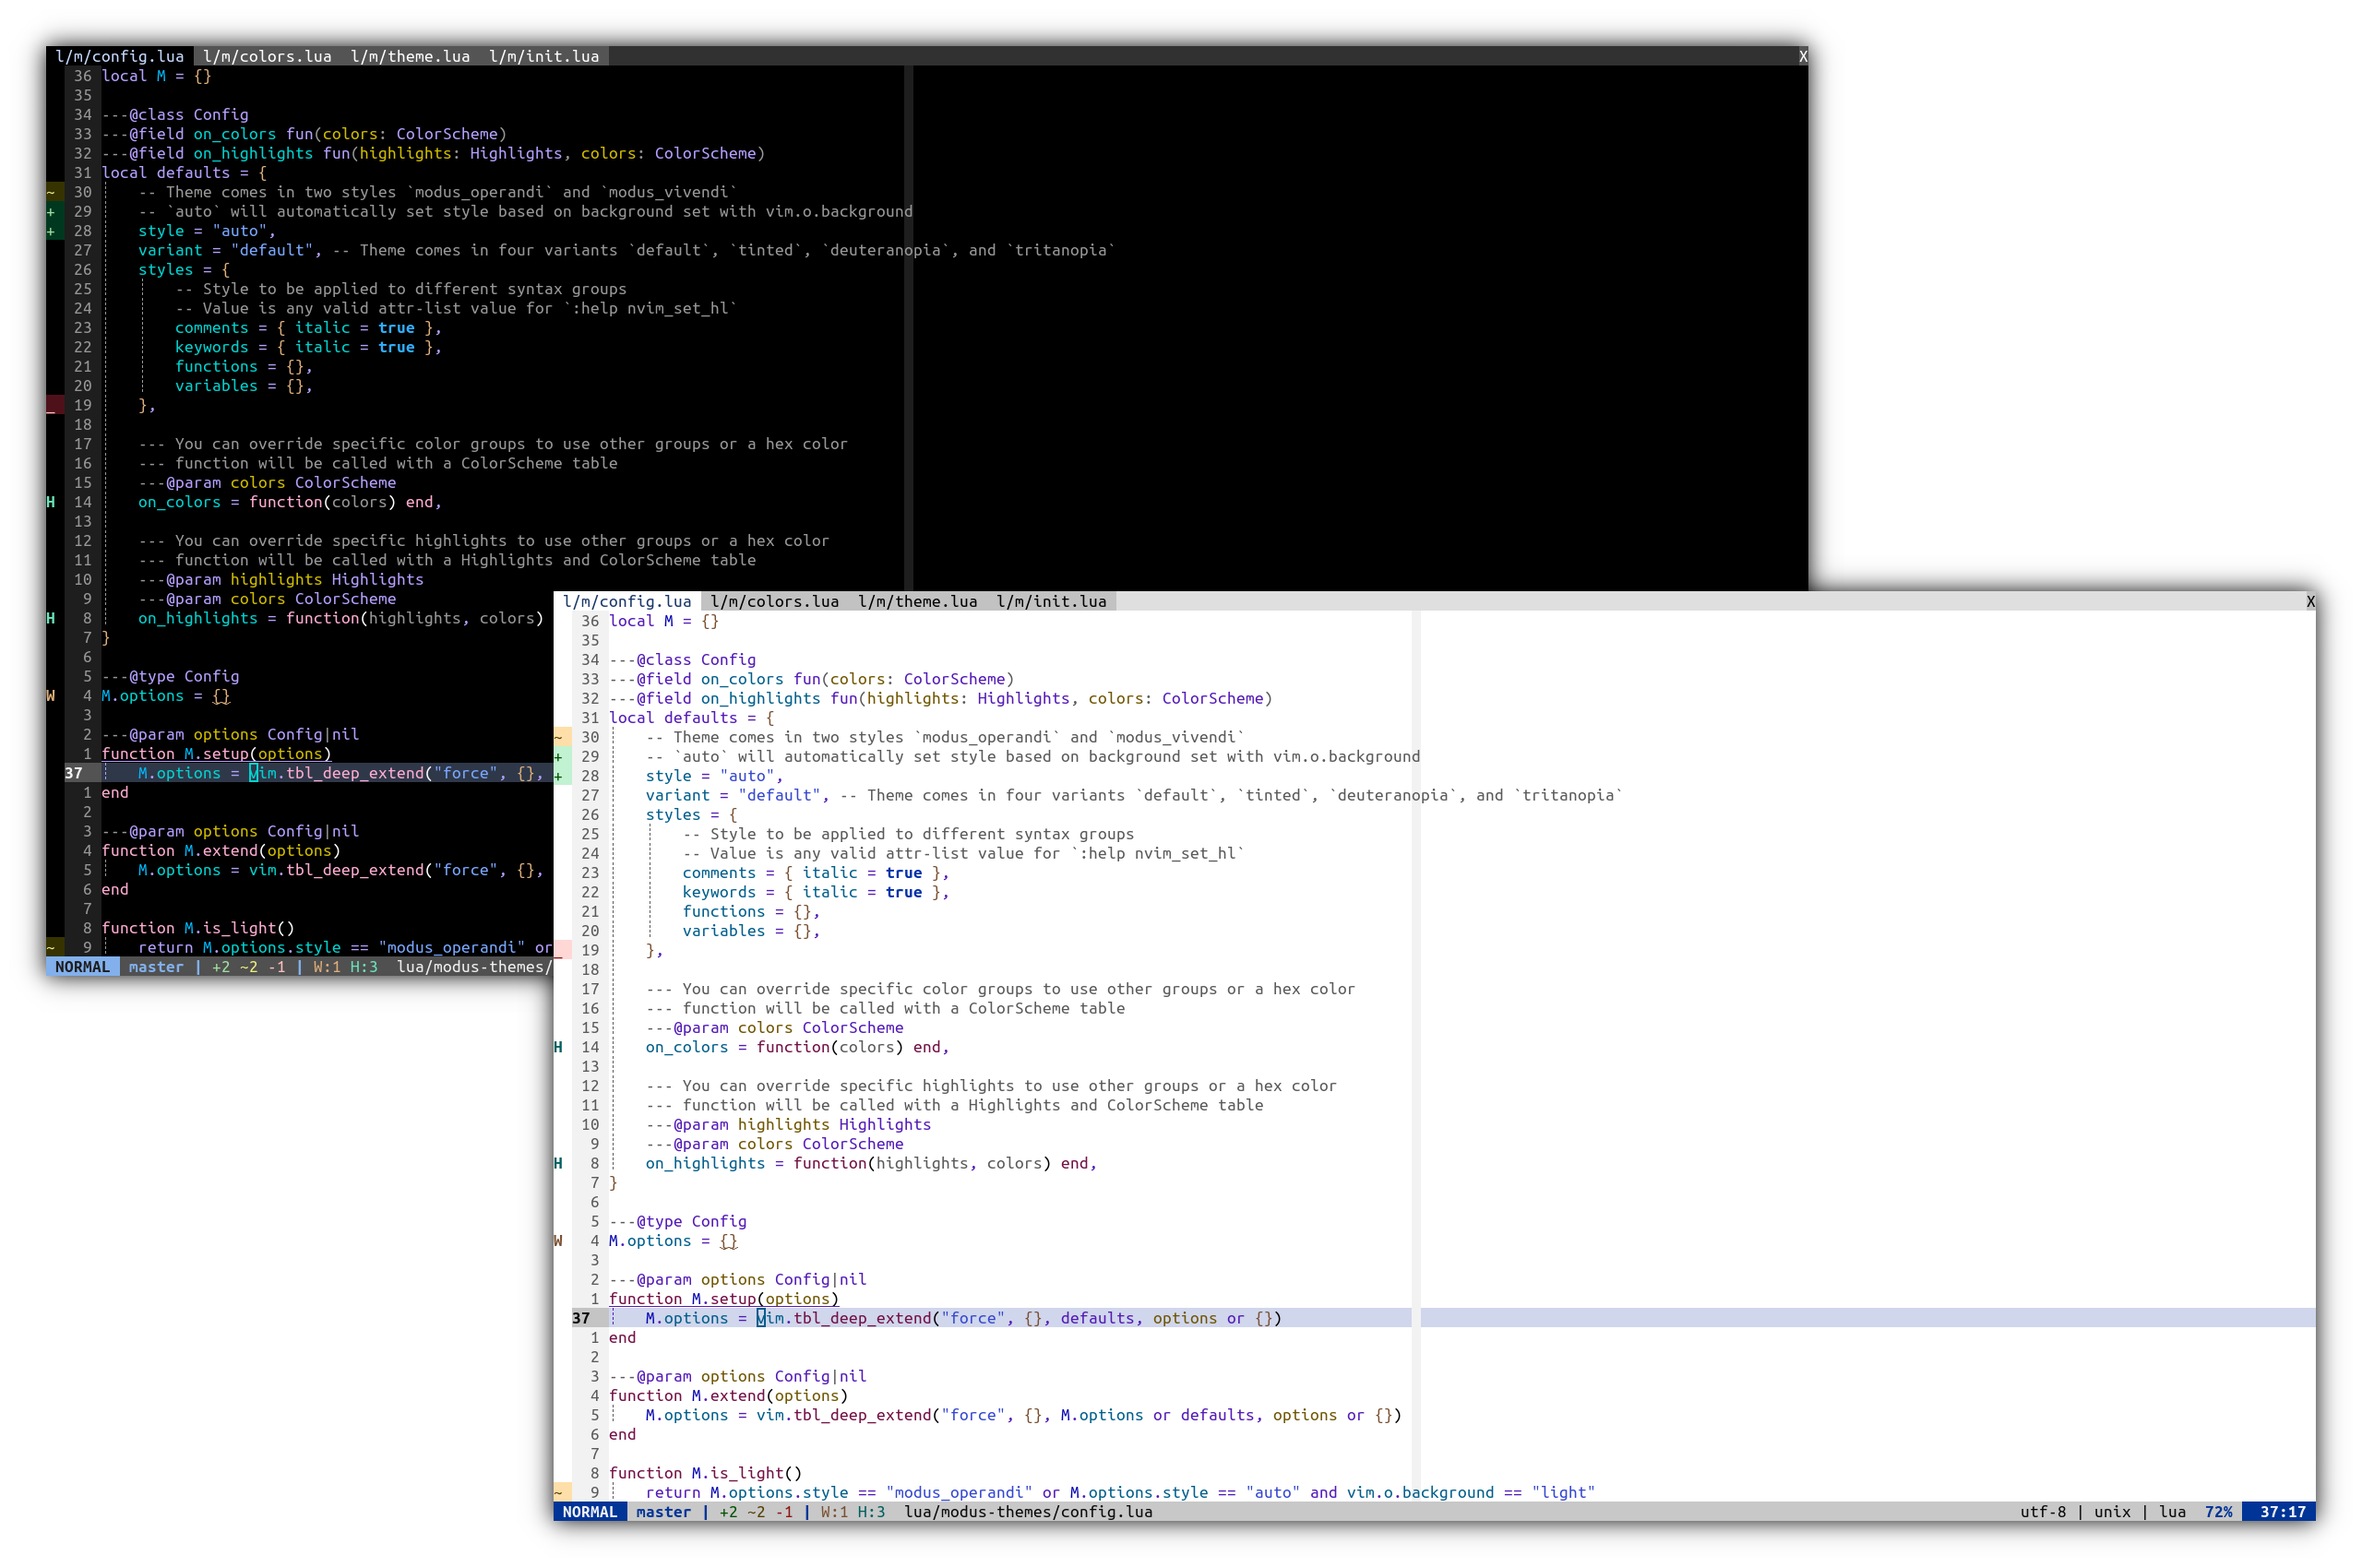
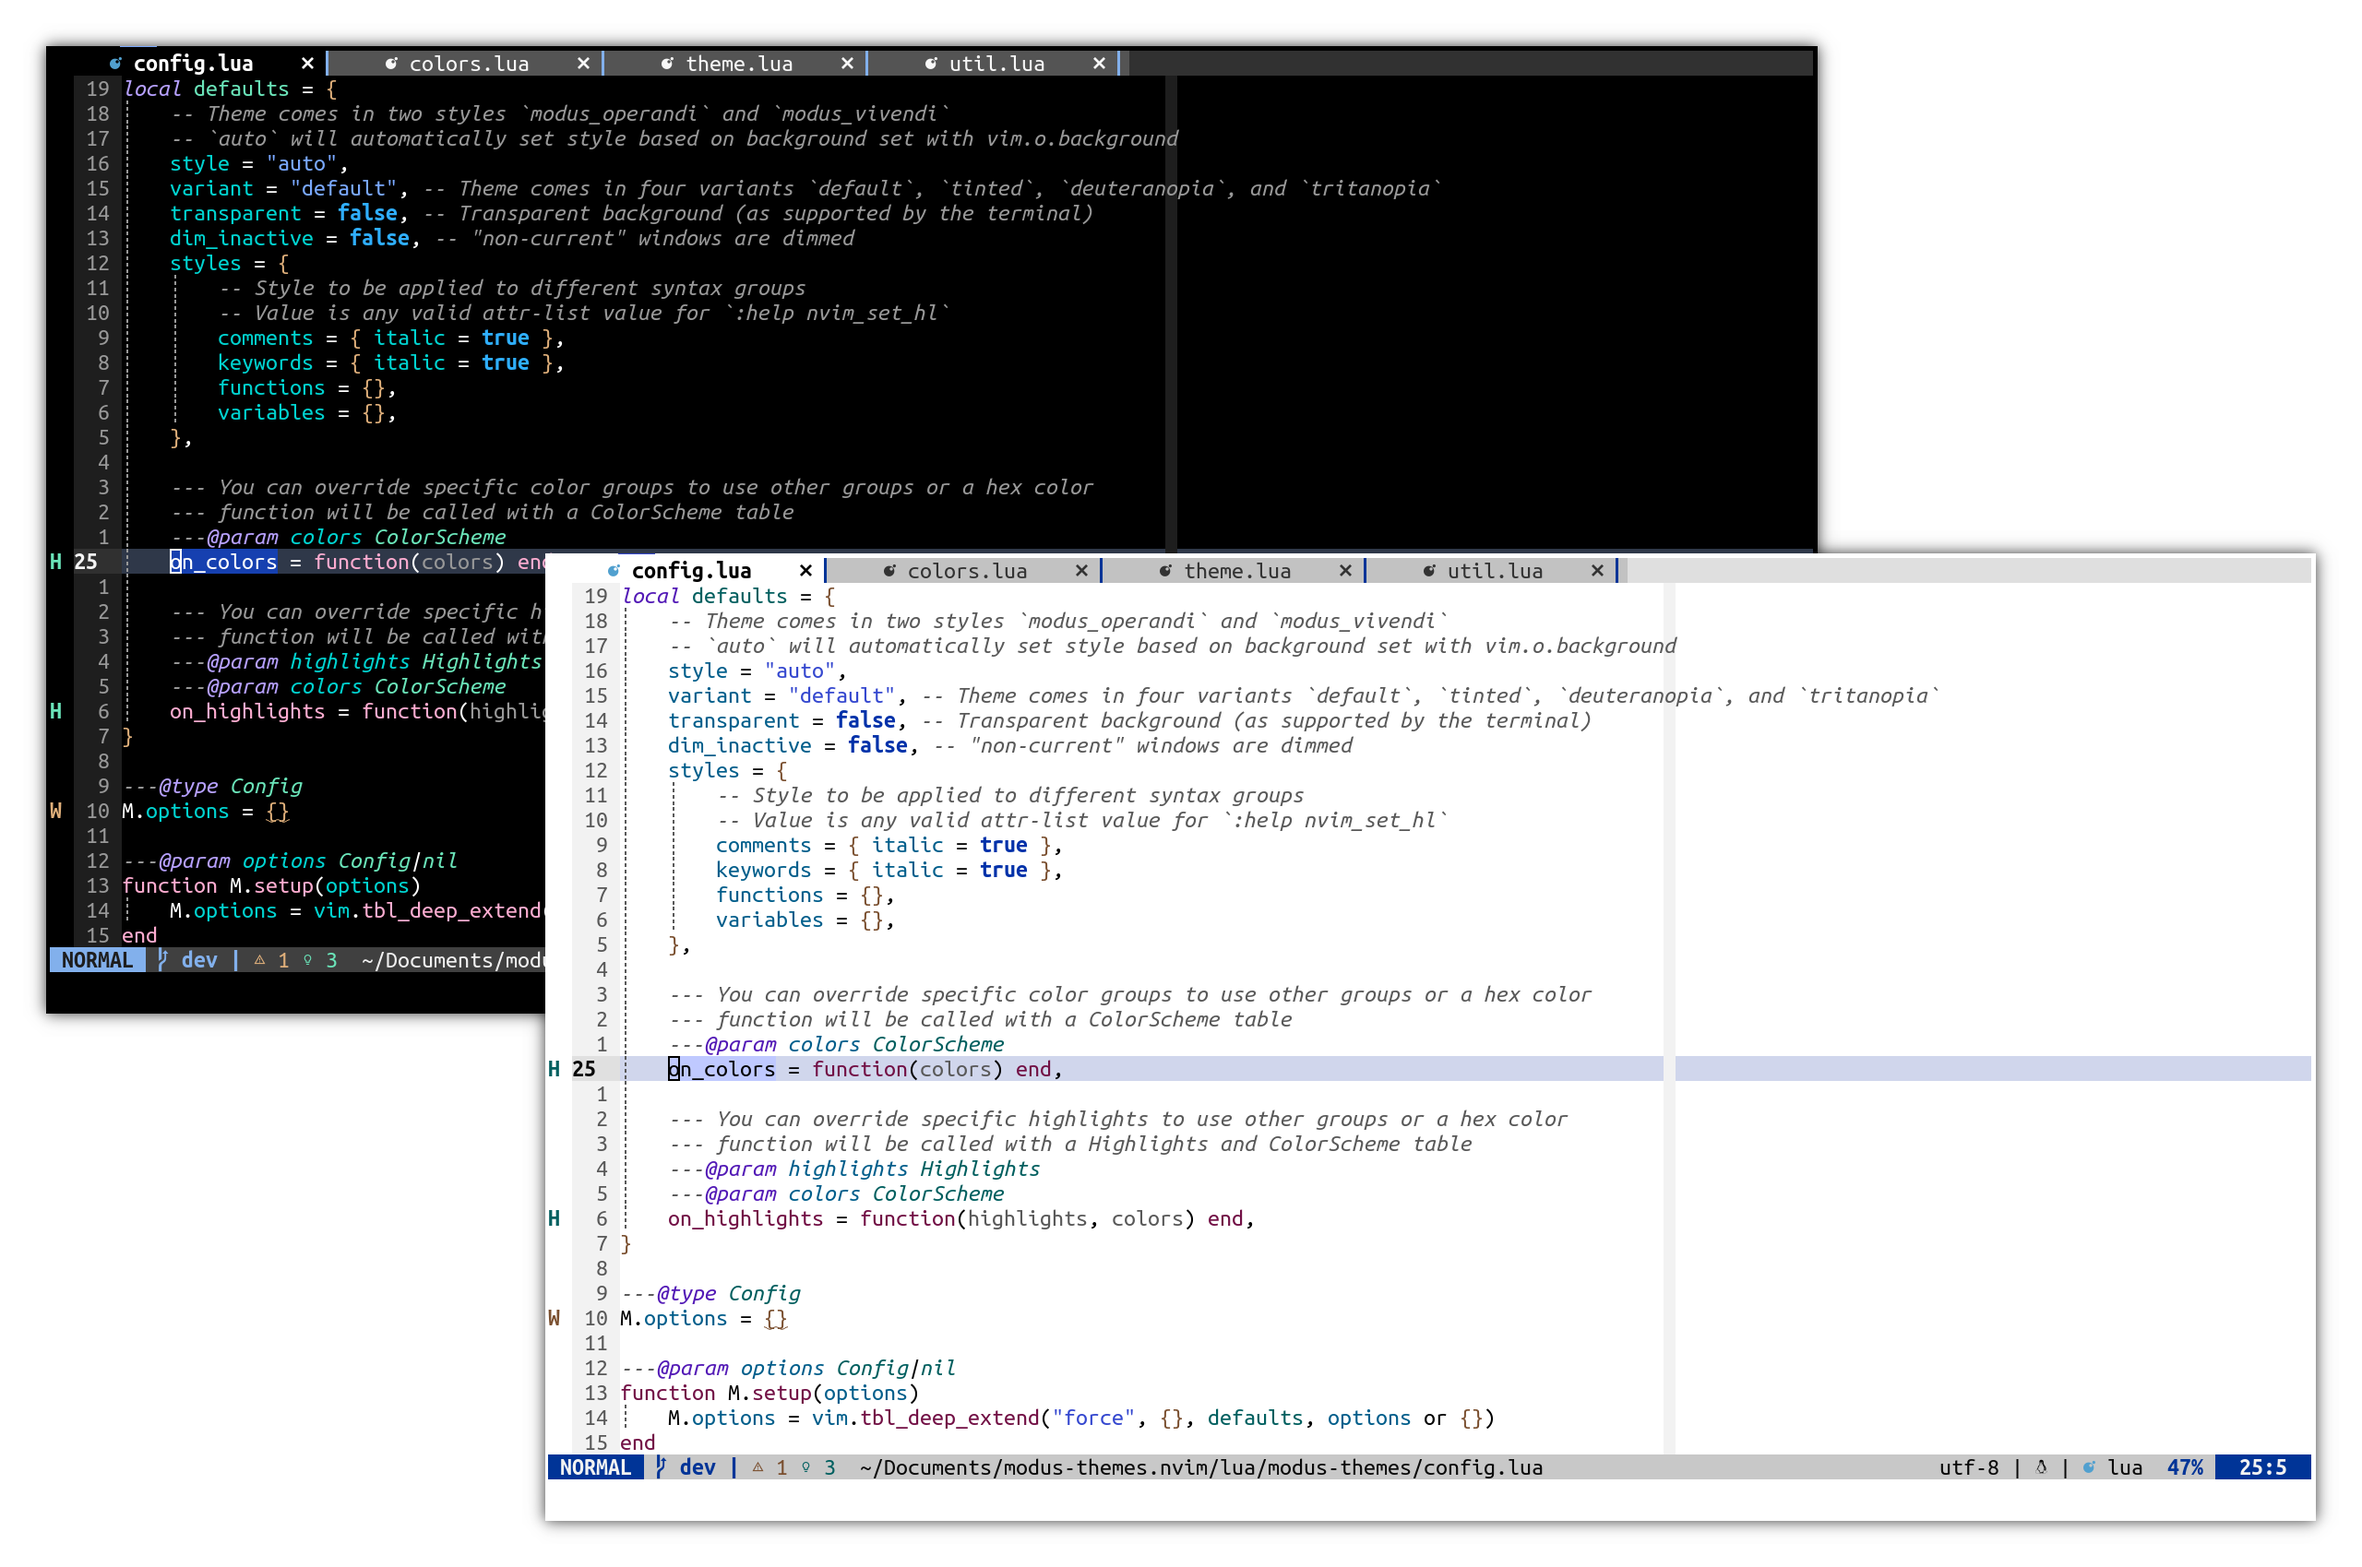
[IMP] New preview image and README improve
Replace preview image with an up-to-date picture.
Improve README descriptions

Changed region(s): [[0.0, 0.0, 1.0, 0.9982], [0.7812, 0.4367, 0.8125, 0.4679]]

diff --git a/README.md b/README.md
@@ -114,19 +114,21 @@ require("modus-themes").setup({
 	},
 
 	--- You can override specific color groups to use other groups or a hex color
-	--- function will be called with a ColorScheme table
+	--- Function will be called with a ColorScheme table
+	--- Refer to `extras/lua/modus_operandi.lua` or `extras/lua/modus_vivendi.lua` for the ColorScheme table
 	---@param colors ColorScheme
 	on_colors = function(colors) end,
 
 	--- You can override specific highlights to use other groups or a hex color
-	--- function will be called with a Highlights and ColorScheme table
+	--- Function will be called with a Highlights and ColorScheme table
+	--- Refer to `extras/lua/modus_operandi.lua` or `extras/lua/modus_vivendi.lua` for the Highlights and ColorScheme table
 	---@param highlights Highlights
 	---@param colors ColorScheme
 	on_highlights = function(highlights, colors) end,
 })
 ```
 
-### Example Settings and Color Overrides
+### Example Settings with Color and Highlight Overrides
 
 ```lua
 require("modus-themes").setup({
@@ -138,6 +140,9 @@ require("modus-themes").setup({
 
 	on_colors = function(colors)
 		colors.error = colors.red_faint -- Change error color to the "faint" variant
+	end,
+	on_highlights = function(highlight, color)
+		highlight.Boolean = { fg = color.green } -- Change Boolean highlight to use the green color
 	end,
 })
 ```
